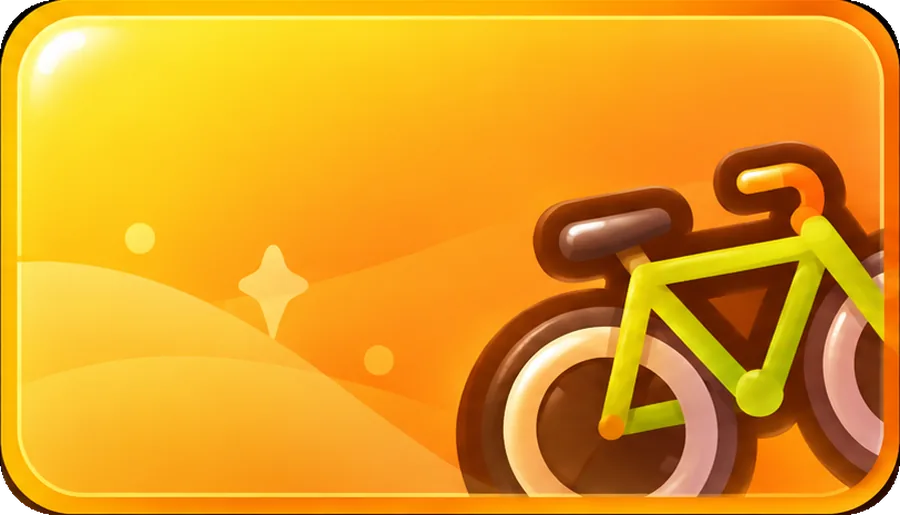
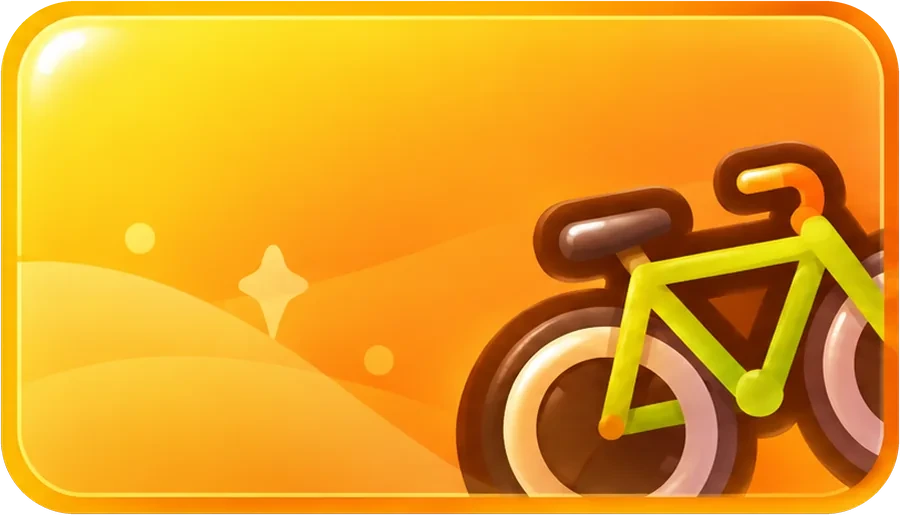
Bereich-Kacheln: schwarze Ecken entfernt, Kachel-Bilder neu laden (ep-2026-10-26-02)
Claude-Session: https://claude.ai/code/session_015F4ypguKCiePf7SvTB76p6

Changed region(s): [[0.0, 0.0, 1.0, 1.0], [0.0, 0.0, 0.0933, 0.1243]]

diff --git a/stil.js b/stil.js
@@ -657,7 +657,7 @@ const SYM = {tag:["right bottom","60%"], serie:["right bottom","86%"], level:["r
   abzeichen:["right bottom","63%"], wissen:["right bottom","82%"], fehler:["right bottom","80%"], truhe:["right top 6%","54%"]};
 const W = "html:root body .ep-wg>.ep-w";
 const css = document.createElement("style"); css.id = "ep-kacheln-css";
-css.textContent = T.map(([s, n]) => `${W}${s}{background:url(${K}${n}-symbol.webp) ${SYM[n][0]}/auto ${SYM[n][1]} no-repeat,url(${K}${n}-grund.webp) 0 0/100% 100% no-repeat,transparent!important;animation:none!important}`).join("\n") + `
+css.textContent = T.map(([s, n]) => `${W}${s}{background:url(${K}${n}-symbol.webp?v=2) ${SYM[n][0]}/auto ${SYM[n][1]} no-repeat,url(${K}${n}-grund.webp?v=2) 0 0/100% 100% no-repeat,transparent!important;animation:none!important}`).join("\n") + `
 ${W}:is(${T.map(t => t[0]).join(",")}){border:0!important;border-radius:28px!important;color:#fff!important;box-shadow:0 14px 30px -14px rgba(20,20,70,.55)!important;overflow:hidden}
 ${W}:is(${T.map(t => t[0]).join(",")})::after{display:none!important}
 @media (max-width:860px){${W}.xt-ein{background-position:right center,0 0!important;background-size:auto 88%,100% 100%!important}}
@@ -715,7 +715,7 @@ const K = "img/kacheln/bereich-", N = ["welt", "natur", "geld", "alltag"];
 const pc = n => `html:root body:not(.ep-app) .bereiche>.bereich[data-b=${n}]`;
 const alle = N.map(pc).join(",");
 const css = document.createElement("style"); css.id = "ep-bereich-kacheln-css";
-css.textContent = N.map(n => `${pc(n)}{background:url(${K}${n}.webp) 0 0/100% 100% no-repeat!important}`).join("\n") + `
+css.textContent = N.map(n => `${pc(n)}{background:url(${K}${n}.webp?v=2) 0 0/100% 100% no-repeat!important}`).join("\n") + `
 :is(${alle}){border-image:none!important;animation:none!important;border:0!important;border-radius:4.5%/7.8%!important;aspect-ratio:900/515;height:auto!important;color:#fff!important;box-shadow:none!important;overflow:visible;filter:drop-shadow(0 14px 22px rgba(20,20,70,.35))}
 :is(${alle})::before,:is(${alle})::after{display:none!important}
 :is(${alle}) :is(h2,p,b,small,.apn){text-shadow:0 2px 8px rgba(20,10,60,.5)}
@@ -731,8 +731,8 @@ const K = "img/kacheln/", T = "html:root body .ap-heute";
 const G = {serie:[269,301], wissen:[288,337], level:[325,288], tag:[252,344], live:[252,287], fehler:[336,324], abzeichen:[290,358]};
 const M = {zufall:"serie", lib:"wissen", profil:"level", chat:"tag", live:"live", fehler:"fehler"};
 const s = "var(--s,.25)";
-const grund = n => `border-image:url(${K}${n}-grund.webp) 60 60 66 60 fill/calc(60px*${s}) calc(60px*${s}) calc(66px*${s}) calc(60px*${s}) stretch!important;border-style:solid!important;border-width:0!important;border-color:transparent!important;background:transparent!important`;
-const sym = n => `content:""!important;display:block!important;position:absolute!important;right:0!important;bottom:0!important;top:auto!important;left:auto!important;width:calc(${G[n][0]}px*${s})!important;height:calc(${G[n][1]}px*${s})!important;background:url(${K}${n}-symbol.webp) 0 0/100% 100% no-repeat!important;border-radius:0!important;opacity:1!important;transform:none!important;filter:none!important;animation:none!important;pointer-events:none;z-index:0!important`;
+const grund = n => `border-image:url(${K}${n}-grund.webp?v=2) 60 60 66 60 fill/calc(60px*${s}) calc(60px*${s}) calc(66px*${s}) calc(60px*${s}) stretch!important;border-style:solid!important;border-width:0!important;border-color:transparent!important;background:transparent!important`;
+const sym = n => `content:""!important;display:block!important;position:absolute!important;right:0!important;bottom:0!important;top:auto!important;left:auto!important;width:calc(${G[n][0]}px*${s})!important;height:calc(${G[n][1]}px*${s})!important;background:url(${K}${n}-symbol.webp?v=2) 0 0/100% 100% no-repeat!important;border-radius:0!important;opacity:1!important;transform:none!important;filter:none!important;animation:none!important;pointer-events:none;z-index:0!important`;
 const A = `${T} :is(.ap-tag>.apf,.ap-woche,.ap-fakt)`;
 const css = document.createElement("style"); css.id = "ep-app-kacheln-css";
 css.textContent = Object.entries(M).map(([x, n]) => `${T} .ap-tag>.apf[data-x=${x}]{${grund(n)}}\n${T} .ap-tag>.apf[data-x=${x}]::after{${sym(n)}}`).join("\n") + `

diff --git a/index.html b/index.html
@@ -74,7 +74,7 @@ html.ep-boot #epBoot{display:flex;position:fixed;inset:0;z-index:99999;flex-dire
 <link rel="preload" as="image" href="img/kinder.webp">
 <script>/* Versionsprüfung: Ist diese Seite älter als die veröffentlichte Version (alter Speicher, Browser-Cache,
    Homescreen-App), alles Alte löschen und einmal frisch laden. Höchstens einmal pro 10 Minuten. */
-window.EP_BUILD="ep-2026-10-26-01";
+window.EP_BUILD="ep-2026-10-26-02";
 (function(){ try{
   if(window.claude || window.EP_NATIV || !/^https?:$/.test(location.protocol)){ window.__epVer="ok"; return; }   /* App (alles eingebaut) und Vorschau: keine Prüfung */
   /* Prüft, ob auf dem Server eine neuere Version liegt. Läuft beim Laden UND jedes Mal, wenn die Seite

diff --git a/sw.js b/sw.js
@@ -2,7 +2,7 @@
    Sorgt für schnelle Wiederholungsbesuche und Offline-Nutzung.
    Bei jeder Änderung an der App-Hülle VERSION hochzählen, damit alte Caches gelöscht werden. */
 
-const VERSION = "ep-2026-10-26-01";
+const VERSION = "ep-2026-10-26-02";
 const CACHE_HUELLE = VERSION + "-huelle";   // App-Hülle, Code, Daten
 // Bilder in einem festen Speicher: überlebt Updates (nur bilder/, img/, flags/), wird täglich still geprüft
 const CACHE_BILDER = "ep-bilder";

diff --git a/CLAUDE.md b/CLAUDE.md
@@ -33,6 +33,7 @@ Diese Datei ist der gemeinsame Kanal. Jede Sitzung liest sie vor der Arbeit und 
 
 ## Erledigt (neueste oben)
 
+- 26.10. Sitzung «Hauptseite»: Bereich-Kacheln Computer: schwarze Ecken entfernt, `img/kacheln/bereich-*.webp` mit sauberer runder Maske (Radius 74 px auf 900 x 515). Kachel-Bilder in `stil.js` mit `?v=2`, damit Browser die bereinigten Bilder sofort holen. Version ep-2026-10-26-02.
 - 26.10. Sitzung «Verwaltung»: Admin-Konto für Dejan (dejan.ehrbar@bluewin.ch). Neue Datei `server/sql/91-admin-konto.sql` (in `server/db.js`) legt es beim Start einmalig an, bestätigt und mit Admin-Rechten (nur Prüfwert des Passworts, Passwort hat Dejan im Chat). Bestehende Konten werden nicht verändert. Version ep-2026-10-26-01.
 - 25.10. Sitzung «Verwaltung» (session_0129QSvEpHyQivLCa4gCvJjN): Verwaltung ausgebaut. Neue Bereiche Themenplan, Werbung (bearbeitet `werbung.json` über GitHub), Namen prüfen, Live/Duell/Cup, Hinweis an alle, Sicherheit, Protokoll, Sicherung; Technik zeigt den eigenen Server (Mail, Version, Datenbank, Testmail) und die App-Bauten; Übersicht zeigt, was Aufmerksamkeit braucht; alle Supabase-Texte ersetzt (`admin/index.html`). Datenbank: neu `supabase/verwaltung.sql` (läuft automatisch, steht in `server/db.js`), Tabelle `einstellungen` und `name_gesperrt()` (Sperrwörter) in `schema.sql`/`sicherheit.sql`, genutzt in `kommentar_vorher`, `duell_name` (`duell.sql`) und `liga_anmelden` (`klassenliga.sql`). Server: neu `server/admin.js` (`/api/admin/status`, `testmail`, `sicherung`), jede `admin_…`-Änderung landet in `admin_protokoll` (`rest.js`), Anmeldesperren werden gezählt (`auth.js`), Test `server/test/verwaltung.test.mjs`. Website: neue Datei `hinweis.js` (vor `startseite.js`, in `sw.js`) zeigt den Hinweis an alle und setzt `window.EP_PLAN`; `startseite.js` nimmt Thema der Woche und Live-Thema aus dem Plan, sonst automatisch. Wichtig für alle: Neue Namen, die andere sehen, mit `public.name_gesperrt()` prüfen. Version ep-2026-10-25-20.
 - 25.10. Sitzung «Hauptseite»: Verwaltung: neues Passwort für dejan (`admin/index.html`, KONTEN). Der gemerkte GitHub-Schlüssel war mit dem alten Passwort verschlüsselt und muss neu eingegeben werden. Version ep-2026-10-25-19.
